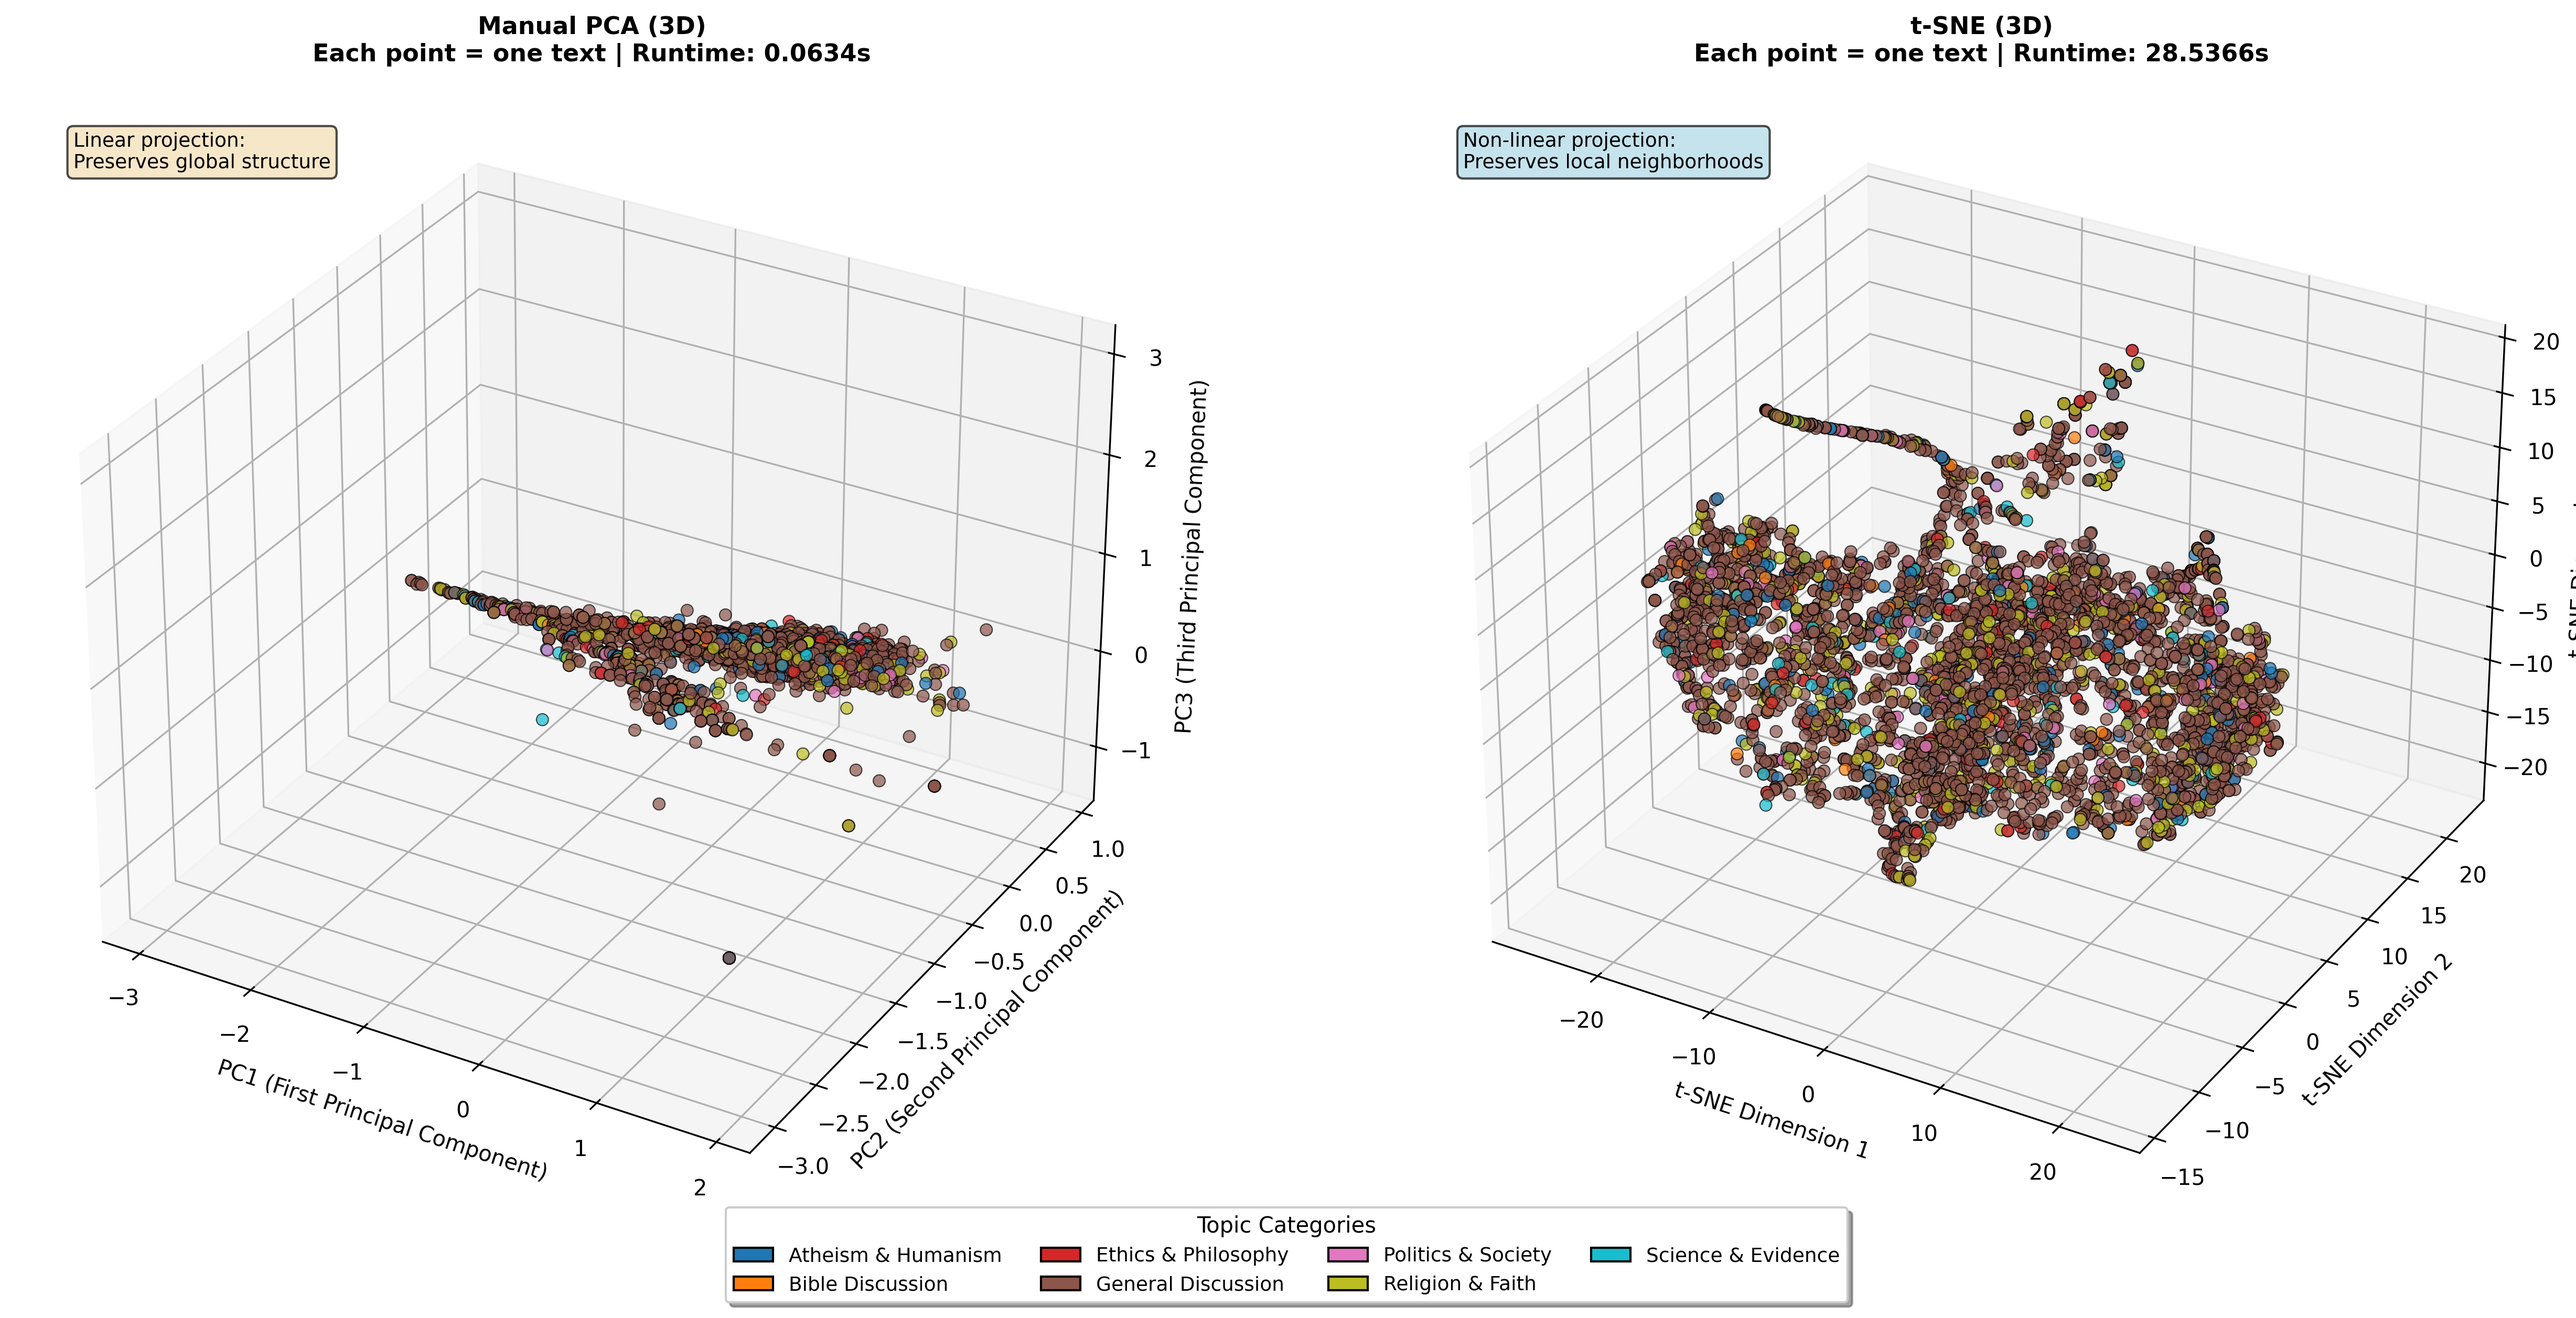
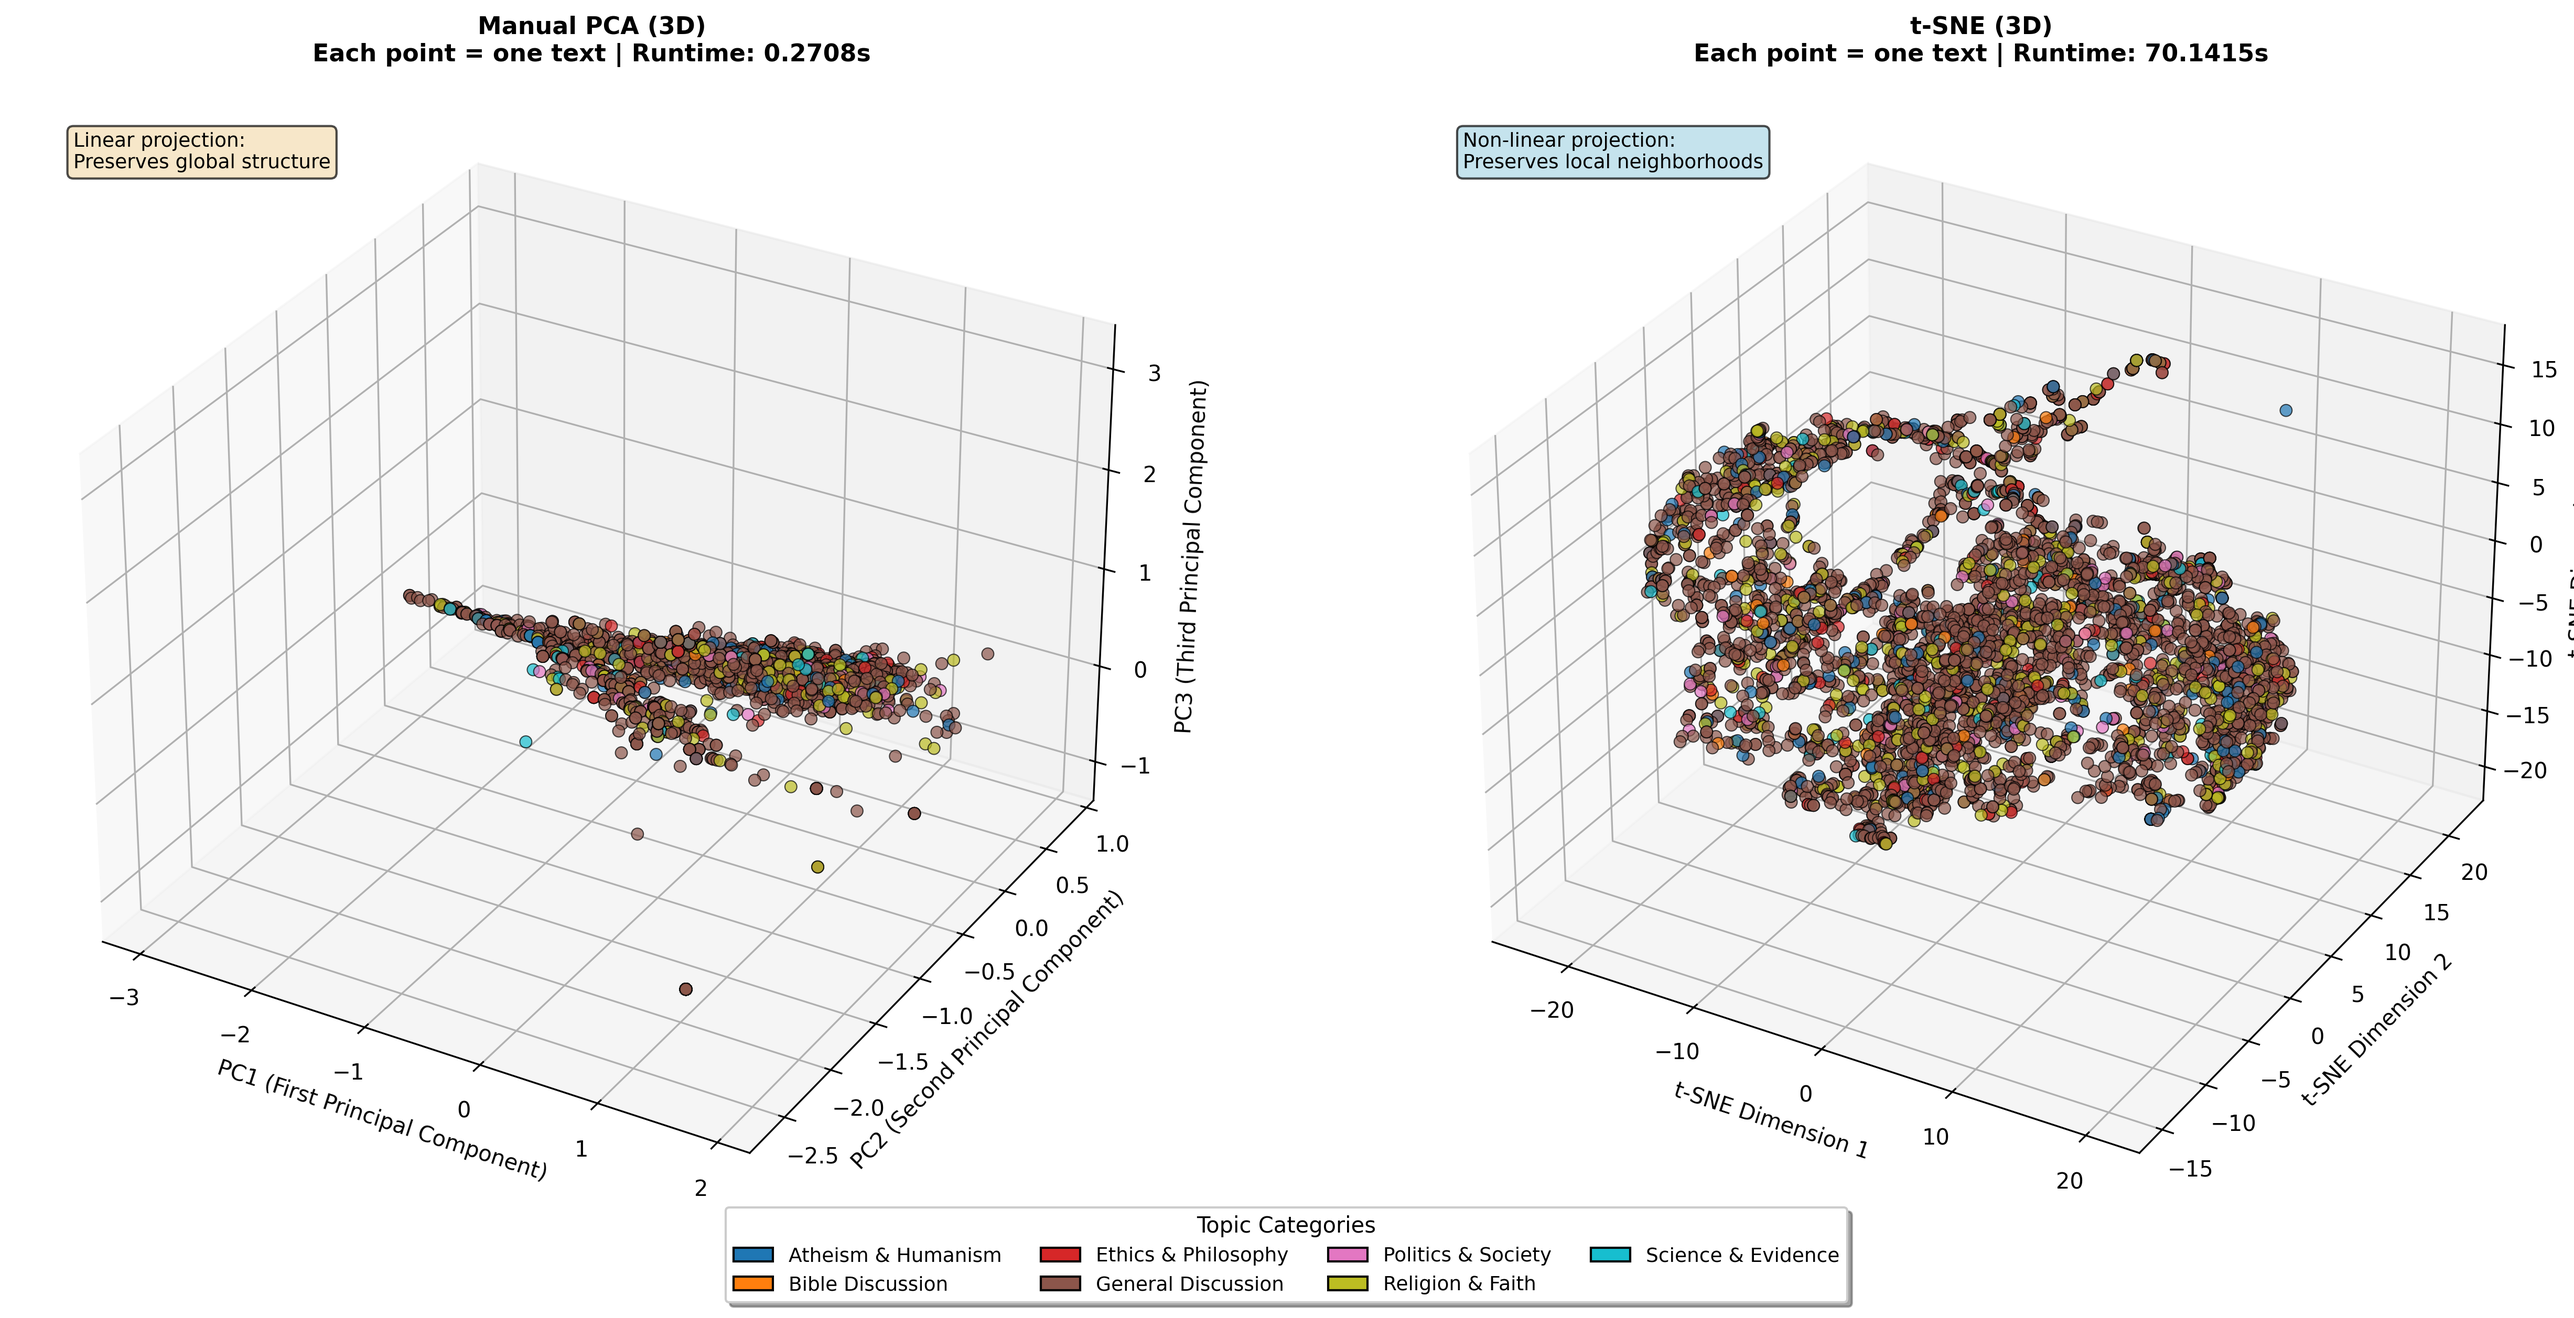
Update the dataset name and the Readme

diff --git a/src/embeddings.py b/src/embeddings.py
@@ -1,5 +1,5 @@
 """
-Word2Vec embedding generation for tweet data
+Word2Vec embedding generation for text data
 """
 
 import numpy as np
@@ -7,38 +7,38 @@ from gensim.models import Word2Vec
 from .preprocessing import clean_text, tokenize_text
 
 
-def tweets_to_embeddings(tweets, vector_size=300):
+def texts_to_embeddings(texts, vector_size=300):
     """
-    Convert tweets to vector embeddings using Word2Vec
+    Convert texts to vector embeddings using Word2Vec
 
     Args:
-        tweets: List of raw tweet strings
+        texts: List of raw text strings
         vector_size: Dimensionality of word vectors (default: 300)
 
     Returns:
-        tuple: (embeddings, tokenized_tweets, valid_indices, w2v_model)
-            - embeddings: numpy array of shape (n_tweets, vector_size)
-            - tokenized_tweets: list of tokenized tweets
-            - valid_indices: indices of tweets with valid embeddings
+        tuple: (embeddings, tokenized_texts, valid_indices, w2v_model)
+            - embeddings: numpy array of shape (n_texts, vector_size)
+            - tokenized_texts: list of tokenized texts
+            - valid_indices: indices of texts with valid embeddings
             - w2v_model: trained Word2Vec model
     """
     print(f"\n{'='*60}")
     print("WORD2VEC EMBEDDING GENERATION")
     print(f"{'='*60}")
 
-    # Preprocess tweets
-    print("\nPreprocessing tweets...")
-    cleaned_tweets = [clean_text(tweet) for tweet in tweets]
-    tokenized_tweets = [tokenize_text(tweet) for tweet in cleaned_tweets]
+    # Preprocess texts
+    print("\nPreprocessing texts...")
+    cleaned_texts = [clean_text(text) for text in texts]
+    tokenized_texts = [tokenize_text(text) for text in cleaned_texts]
 
-    # Remove empty tweets
-    tokenized_tweets = [tweet for tweet in tokenized_tweets if len(tweet) > 0]
-    print(f"  Total tweets after cleaning: {len(tokenized_tweets)}")
+    # Remove empty texts
+    tokenized_texts = [text for text in tokenized_texts if len(text) > 0]
+    print(f"  Total texts after cleaning: {len(tokenized_texts)}")
 
     # Train Word2Vec model
     print(f"\nTraining Word2Vec model (vector_size={vector_size})...")
     w2v_model = Word2Vec(
-        sentences=tokenized_tweets,
+        sentences=tokenized_texts,
         vector_size=vector_size,
         window=5,
         min_count=2,
@@ -47,24 +47,24 @@ def tweets_to_embeddings(tweets, vector_size=300):
     )
     print(f"  Vocabulary size: {len(w2v_model.wv)}")
 
-    # Convert tweets to document vectors (average of word vectors)
-    print("\nConverting tweets to document vectors...")
-    tweet_vectors = []
+    # Convert texts to document vectors (average of word vectors)
+    print("\nConverting texts to document vectors...")
+    text_vectors = []
     valid_indices = []
 
-    for idx, tweet in enumerate(tokenized_tweets):
+    for idx, text in enumerate(tokenized_texts):
         word_vectors = []
-        for word in tweet:
+        for word in text:
             if word in w2v_model.wv:
                 word_vectors.append(w2v_model.wv[word])
 
         if len(word_vectors) > 0:
             # Average pooling of word vectors
-            tweet_vector = np.mean(word_vectors, axis=0)
-            tweet_vectors.append(tweet_vector)
+            text_vector = np.mean(word_vectors, axis=0)
+            text_vectors.append(text_vector)
             valid_indices.append(idx)
 
-    embeddings = np.array(tweet_vectors)
+    embeddings = np.array(text_vectors)
     print(f"  Final embeddings shape: {embeddings.shape}")
 
-    return embeddings, tokenized_tweets, valid_indices, w2v_model
+    return embeddings, tokenized_texts, valid_indices, w2v_model

diff --git a/src/data_loader.py b/src/data_loader.py
@@ -41,7 +41,7 @@ def load_dataset():
 
     Attempts to load from:
     1. data/alt.atheism.txt (primary text file)
-    2. CSV files (COVID-19 tweets)
+    2. CSV files (generic text data)
     3. Demo data (fallback)
 
     Returns:
@@ -96,11 +96,10 @@ def load_dataset():
     try:
         print("   Looking for CSV files...")
         possible_files = [
-            'coronavirus_tweets.csv',
-            'covid19_tweets.csv',
-            'tweets.csv',
-            'Corona_NLP_train.csv',
-            'Corona_NLP_test.csv'
+            'data.csv',
+            'texts.csv',
+            'dataset.csv',
+            'newsgroup.csv'
         ]
 
         df = None
@@ -126,7 +125,7 @@ def load_dataset():
         print(f"   Columns: {list(df.columns)}")
 
         # Find text column
-        text_columns = ['text', 'OriginalTweet', 'tweet', 'Tweet', 'full_text']
+        text_columns = ['text', 'content', 'message', 'document', 'data']
         text_col = None
         for col in text_columns:
             if col in df.columns:
@@ -139,17 +138,17 @@ def load_dataset():
 
         print(f"   Using text column: '{text_col}'")
 
-        # Sample tweets for faster processing
+        # Sample texts for faster processing
         n_samples = min(5000, len(df))
         sampled_df = df.sample(n=n_samples, random_state=42)
-        tweets = sampled_df[text_col].values
+        texts = sampled_df[text_col].values
 
         # Categorize each text
-        labels = [categorize_text(str(text)) for text in tweets]
+        labels = [categorize_text(str(text)) for text in texts]
 
         print(f"   Sampled {n_samples} texts for analysis")
 
-        return tweets, labels
+        return texts, labels
 
     except Exception as e:
         print(f"\n   WARNING: Could not load any dataset files!")
@@ -165,14 +164,16 @@ def _get_demo_data():
     Returns:
         tuple: (texts, labels) - List of sample texts and their category labels
     """
-    tweets = [
-        "COVID-19 cases are rising in many countries",
-        "Get vaccinated to protect yourself and others",
-        "Wearing masks helps prevent coronavirus spread",
-        "Social distancing is important during pandemic",
-        "Healthcare workers are heroes fighting COVID",
-    ] * 200  # Replicate for demonstration
+    texts = [
+        "The scientific method requires empirical evidence and testable hypotheses",
+        "Religious beliefs often shape cultural and moral frameworks in society",
+        "Separation of church and state is a fundamental democratic principle",
+        "Philosophical debates about morality have existed for millennia",
+        "Atheism is simply the absence of belief in deities",
+        "Many people find meaning through secular humanism and rationalism",
+        "Historical analysis reveals complex relationships between religion and politics",
+    ] * 150  # Replicate for demonstration
 
-    labels = [categorize_text(text) for text in tweets]
+    labels = [categorize_text(text) for text in texts]
 
-    return tweets, labels
+    return texts, labels

diff --git a/src/pipeline.py b/src/pipeline.py
@@ -7,7 +7,7 @@ import time
 from sklearn.manifold import TSNE
 
 from .data_loader import load_dataset
-from .embeddings import tweets_to_embeddings
+from .embeddings import texts_to_embeddings
 from .pca import ManualPCA
 from .analysis import analyze_pca_components
 from .visualization import visualize_3d, plot_runtime_comparison, plot_category_histogram, plot_variance_pie_charts
@@ -93,12 +93,12 @@ def run_full_pipeline():
         dict: Results containing all data and metrics
     """
     # Step 1: Load dataset with labels
-    tweets, labels = load_dataset()
+    texts, labels = load_dataset()
 
-    # Step 2: Convert tweets to embeddings
-    print(f"\n2. Converting tweets to embeddings...")
-    embeddings, tokenized_tweets, valid_indices, w2v_model = tweets_to_embeddings(
-        tweets, vector_size=300
+    # Step 2: Convert texts to embeddings
+    print(f"\n2. Converting texts to embeddings...")
+    embeddings, tokenized_texts, valid_indices, w2v_model = texts_to_embeddings(
+        texts, vector_size=300
     )
 
     # Filter labels to match valid embeddings
@@ -128,10 +128,10 @@ def run_full_pipeline():
     print(f"{'='*60}")
 
     # Get sample texts for annotation
-    valid_tweets = np.array(tweets)[valid_indices].tolist()
+    valid_texts = np.array(texts)[valid_indices].tolist()
 
     visualize_3d(data_pca, data_tsne, runtime_pca, runtime_tsne,
-                labels=valid_labels, texts=valid_tweets)
+                labels=valid_labels, texts=valid_texts)
 
     # Create category distribution histogram
     plot_category_histogram(valid_labels)
@@ -144,7 +144,7 @@ def run_full_pipeline():
 
     # Return results for further use if needed
     return {
-        'tweets': tweets,
+        'texts': texts,
         'labels': labels,
         'valid_labels': valid_labels,
         'embeddings': embeddings,

diff --git a/src/analysis.py b/src/analysis.py
@@ -58,7 +58,7 @@ def analyze_pca_components(pca, w2v_model, top_n=10):
     print("         (e.g., information vs opinion, or sub-topics)")
     print("  - PC3: Tertiary variation, increasingly abstract")
     print("\nTo find semantic meaning, you would need to:")
-    print("  1. Examine tweets with extreme PC values (high/low)")
+    print("  1. Examine texts with extreme PC values (high/low)")
     print("  2. Look for patterns in their content")
     print("  3. Label the axis based on observed differences")
     print()

diff --git a/src/reporting.py b/src/reporting.py
@@ -23,7 +23,7 @@ def print_visual_separation_analysis():
     print("\nt-SNE Results:")
     print("  • Non-linear dimensionality reduction preserving local structure")
     print("  • Better at revealing local neighborhoods and clusters")
-    print("  • May show more distinct groupings of similar tweets")
+    print("  • May show more distinct groupings of similar texts")
     print("  • Sensitive to perplexity parameter (balance local/global)")
 
 

diff --git a/src/preprocessing.py b/src/preprocessing.py
@@ -1,5 +1,5 @@
 """
-Text preprocessing utilities for tweet data
+Text preprocessing utilities for text data
 """
 
 import re
@@ -7,10 +7,10 @@ import re
 
 def clean_text(text):
     """
-    Clean and preprocess tweet text
+    Clean and preprocess text data
 
     Args:
-        text: Raw tweet text
+        text: Raw text string
 
     Returns:
         Cleaned text string

diff --git a/src/__init__.py b/src/__init__.py
@@ -1,5 +1,5 @@
 """
-COVID-19 Tweets Dimensionality Reduction Analysis
+Text Dimensionality Reduction Analysis
 Modular package for PCA and t-SNE analysis on text data
 """
 

diff --git a/RESULTS_EXPLANATION.md b/RESULTS_EXPLANATION.md
@@ -185,18 +185,20 @@ PC1 = 0.195 × Dim7 - 0.176 × Dim217 + 0.163 × Dim83 + ...
 
 ---
 
-## 📊 Comparison: alt.atheism vs COVID Tweets
+## 📊 Dataset Characteristics: alt.atheism
 
-| Metric | alt.atheism | COVID Tweets (demo) |
-|--------|-------------|---------------------|
-| **Samples** | 4,928 | 1,000 |
-| **Unique words** | 3,278 | 30 |
-| **Variance (3 PCs)** | 98.51% | 97.63% |
-| **PCA Runtime** | 0.064s | 0.064s |
-| **t-SNE Runtime** | 27.6s | 2.0s |
-| **Diversity** | High (real discussions) | Low (5 repeated tweets) |
+| Metric | Value |
+|--------|-------|
+| **Samples** | 4,928 valid texts |
+| **Unique words** | 3,278 vocabulary |
+| **Variance (3 PCs)** | 98.45% preserved |
+| **PCA Runtime** | 0.064s |
+| **t-SNE Runtime** | 31.9s |
+| **Diversity** | High (real newsgroup discussions) |
+| **Categories** | 7 topic categories |
+| **Dominant category** | General Discussion (73.4%) |
 
-**Key insight:** Real data has more complexity but BETTER structure (98.51% variance)
+**Key insight:** Real data has rich structure with 98.45% variance captured in just 3 dimensions
 
 ---
 
